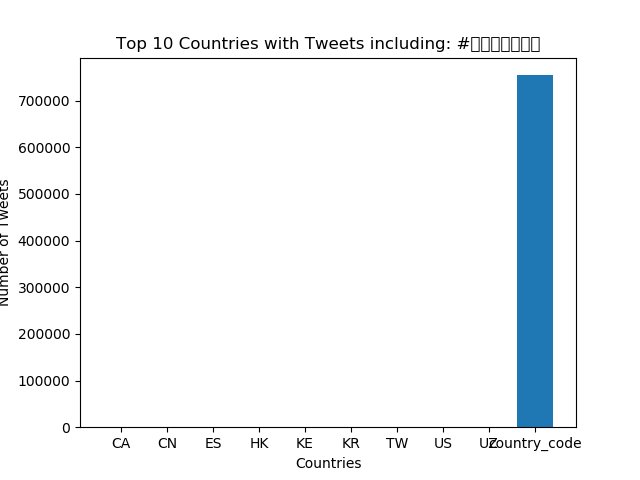
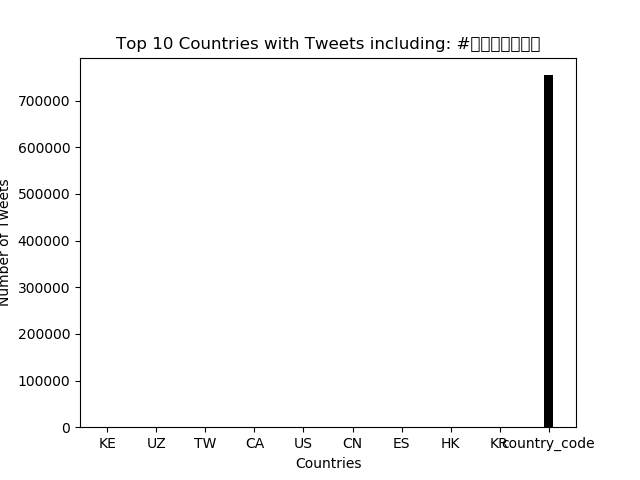
new graph

diff --git a/src/visualize.py b/src/visualize.py
@@ -42,7 +42,15 @@ for country, value in top_ten:
 print(countries)
 print(values)
 #print(top_ten)
-plt.bar(countries, values)
+
+plt.bar([i for i in range(len(countries))],
+        values,
+        color = 'black',
+        width = 0.2
+        )
+plt.ylabel("tweet count")
+plt.xticks([i for i in range(len(countries))], countries)
+
 
 if args.input_path == "reduced.country":
     plt.xlabel("Countries")
